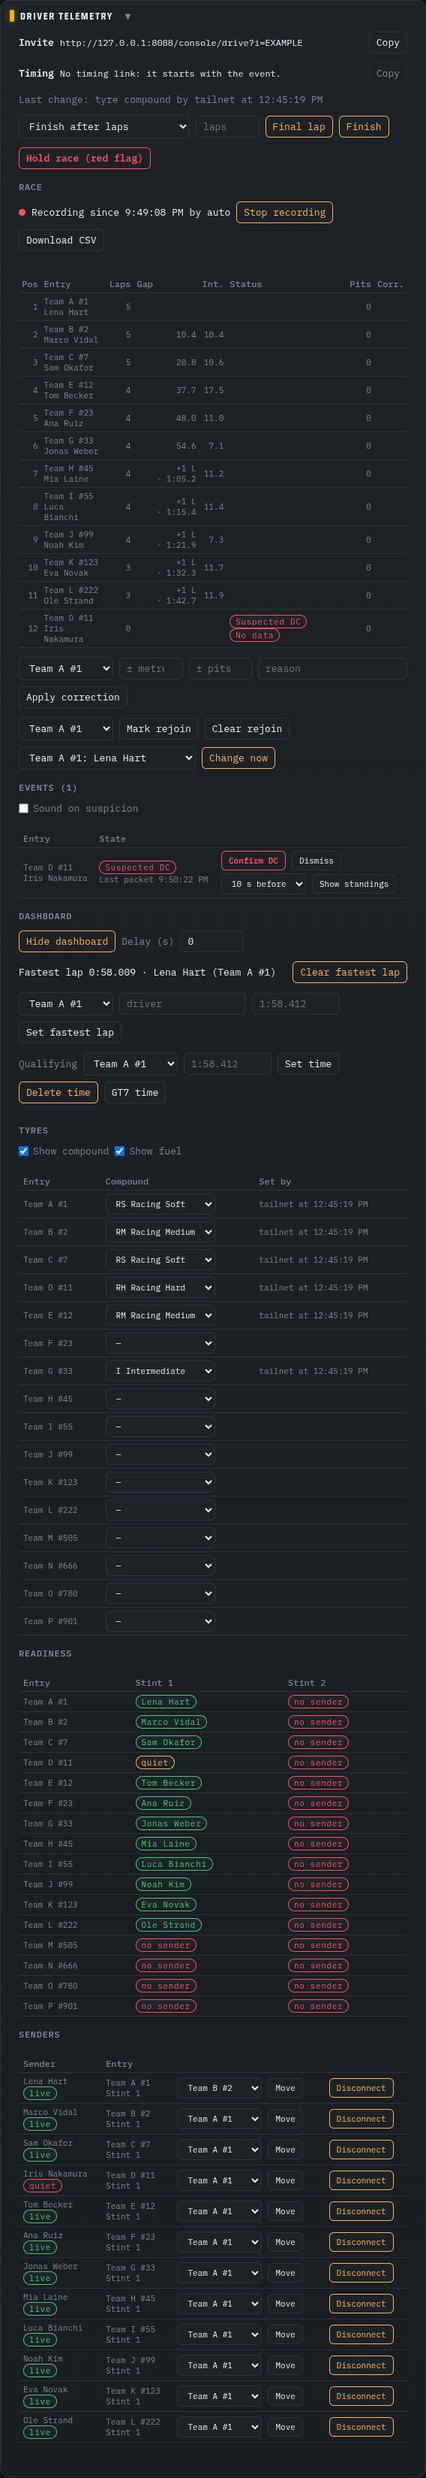
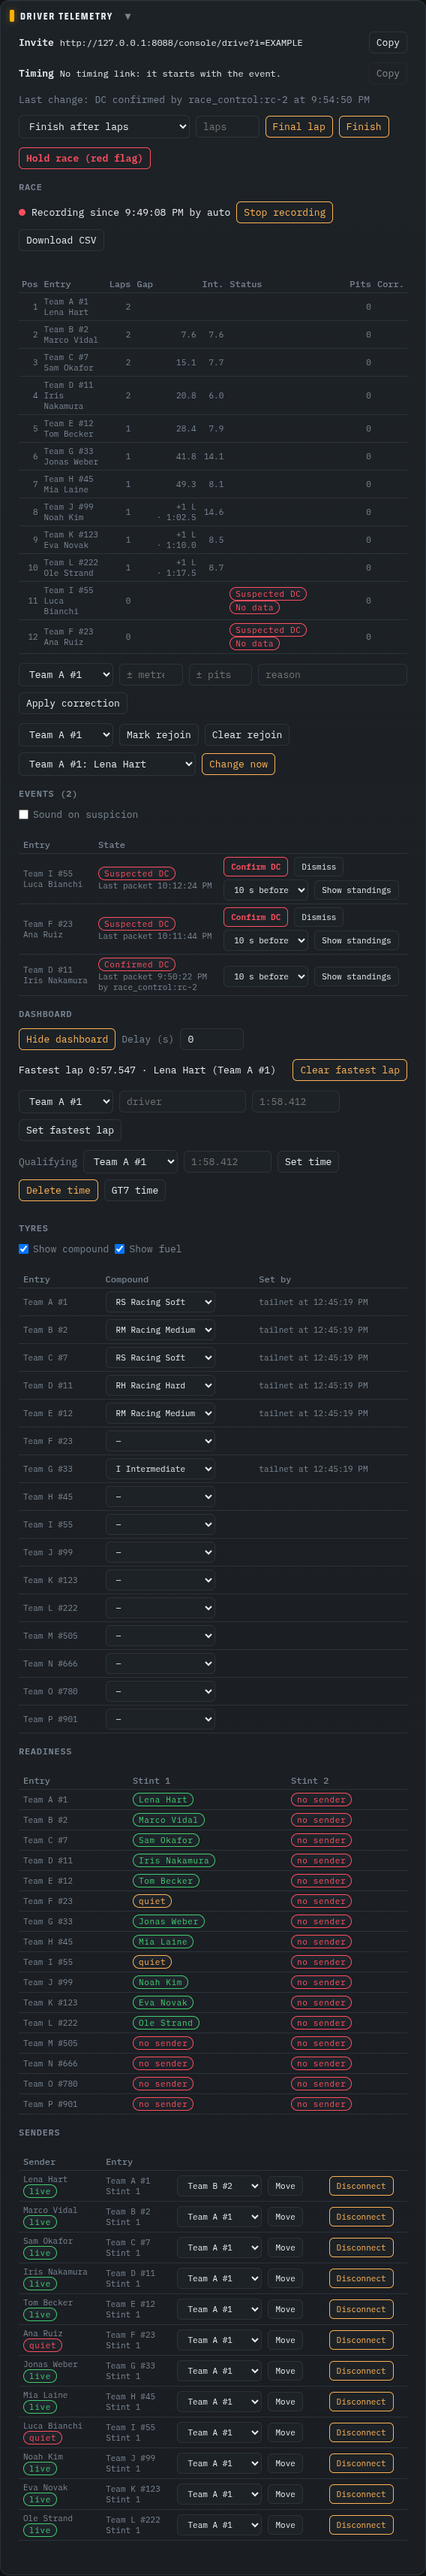
fix(console): a new DC event shows while a desk control has focus
New event rows are inserted in place instead of re-rendering the table
only when focus sits outside it, so a second suspicion appears while
someone has an offset or Show standings focused. The desk also wakes
the audio on its first click after a reload with sound on. Screenshots
recaptured with two suspected and one confirmed event.

diff --git a/src/console/driver-desk.js b/src/console/driver-desk.js
@@ -252,6 +252,7 @@
         o.start(t0); o.stop(t0 + 0.25);
       } catch (e) { /* no audio device */ }
     }
+    var evEmpty = el("tr", {}, [el("td", {colspan: "3", cls: "muted", text: "No disconnects."})]);
     var evRows = Object.create(null);   // keyed by event id: an open offset choice survives the poll
     var evSeen = null;                  // ids seen so far; null until the first poll seeds it
     var suspected = Object.create(null);
@@ -316,13 +317,13 @@
       ids.forEach(function (id) { evSeen[id] = true; });
       if (fresh) beep();
       evTitle.textContent = "Events (" + open + ")";
-      var order = ids.join(",");
-      if (evBody.dataset.order !== order && !evBody.contains(document.activeElement)) {
-        evBody.dataset.order = order;
-        var rows = ids.map(function (id) { return evRows[id].tr; });
-        if (!rows.length) rows = [el("tr", {}, [el("td", {colspan: "3", cls: "muted", text: "No disconnects."})])];
-        evBody.replaceChildren.apply(evBody, rows);
-      }
+      // Rows stay in place and only new ones are inserted, so a focused control keeps its focus.
+      var rows = ids.map(function (id) { return evRows[id].tr; });
+      if (!rows.length) rows = [evEmpty];
+      rows.forEach(function (tr, i) {
+        if (evBody.children[i] !== tr) evBody.insertBefore(tr, evBody.children[i] || null);
+      });
+      while (evBody.children.length > rows.length) evBody.removeChild(evBody.lastChild);
     }
 
     // -- correction / rejoin / change form ------------------------------------------
